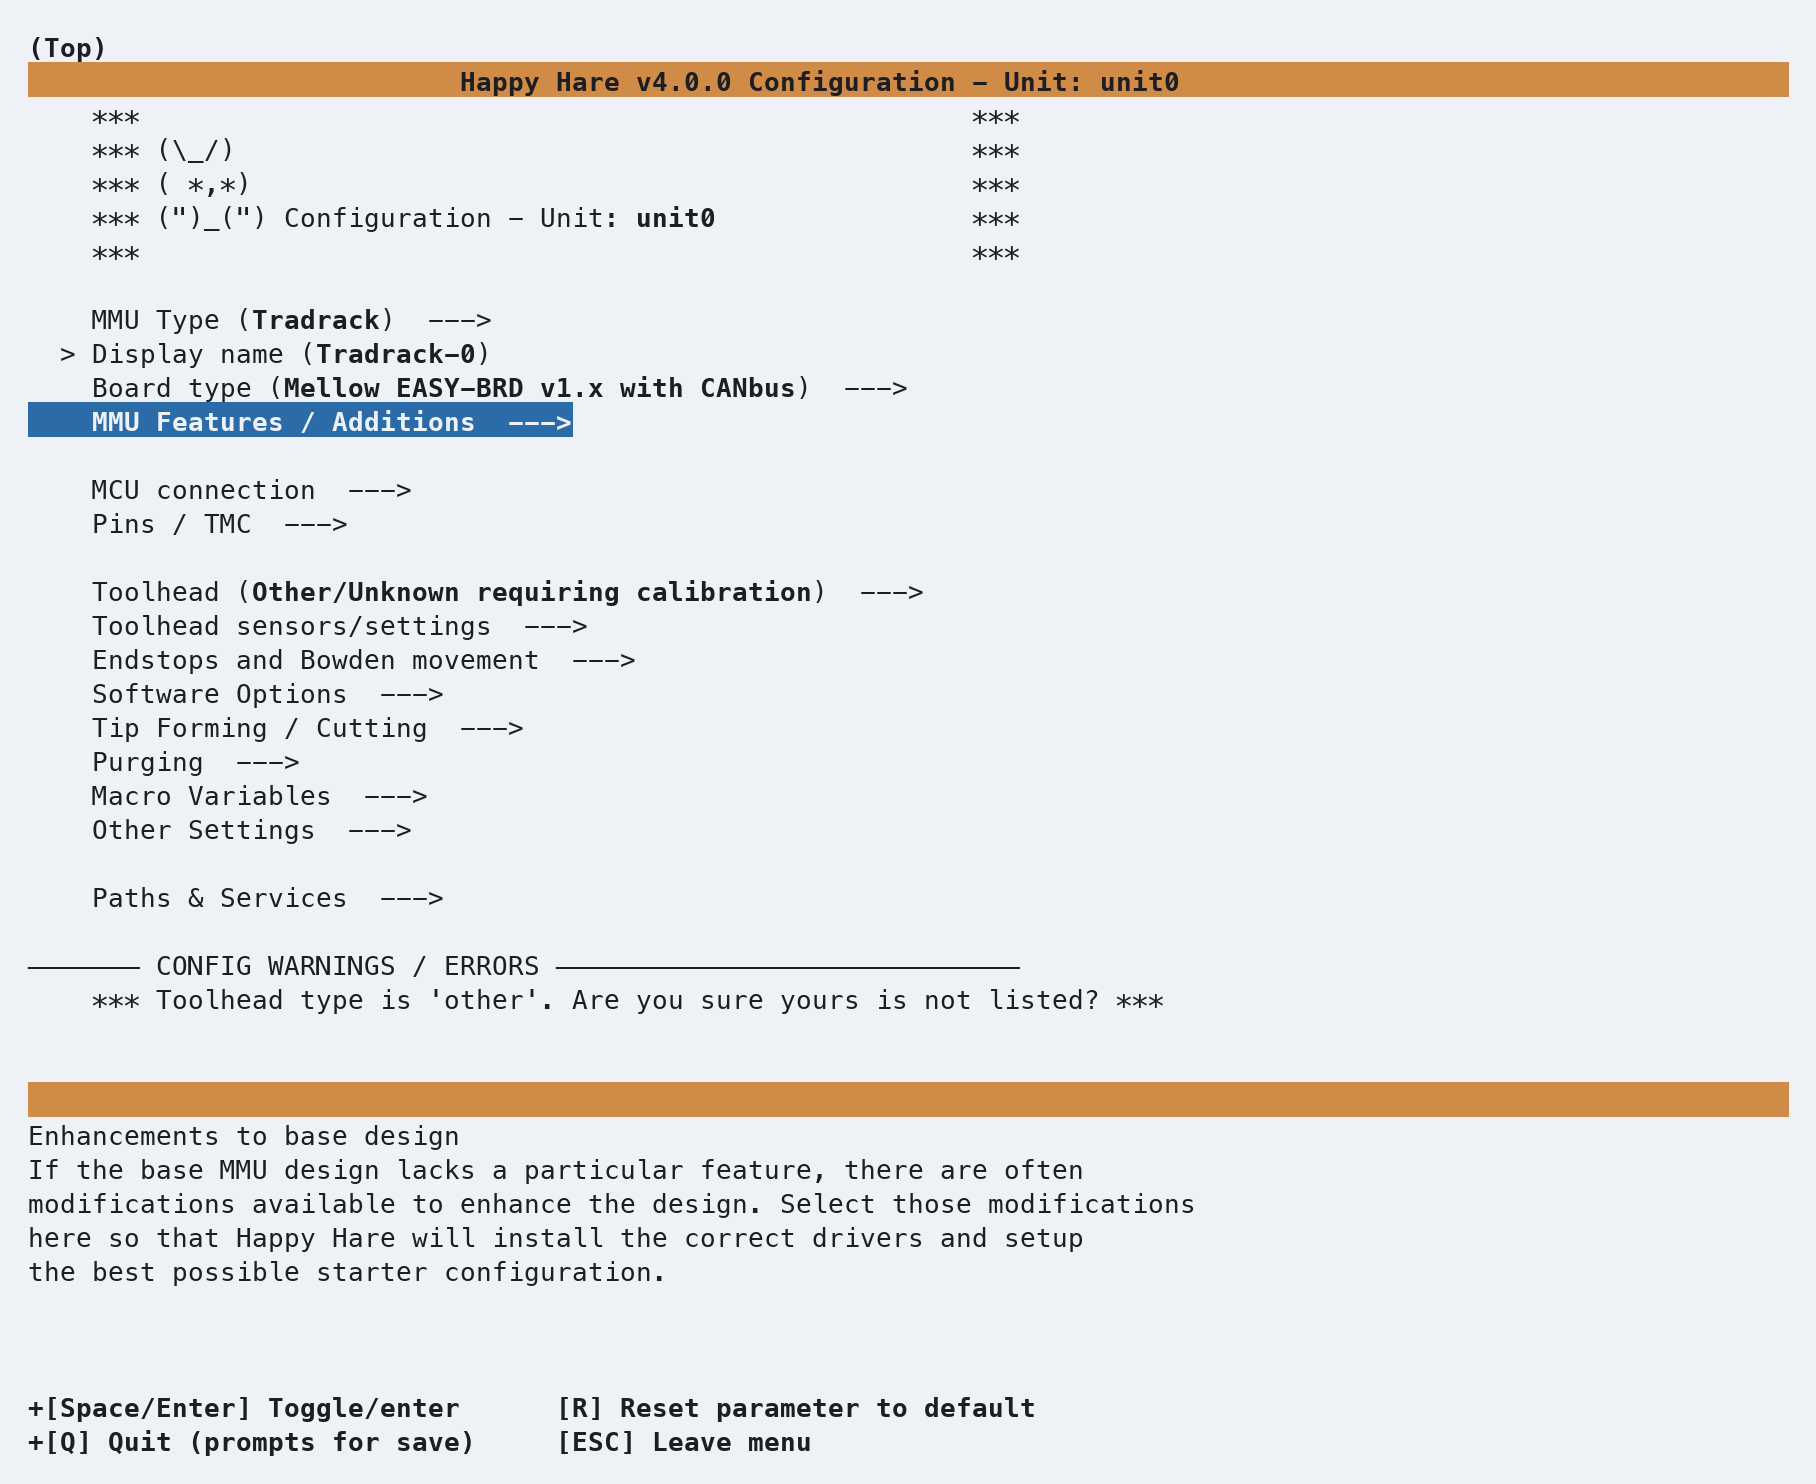
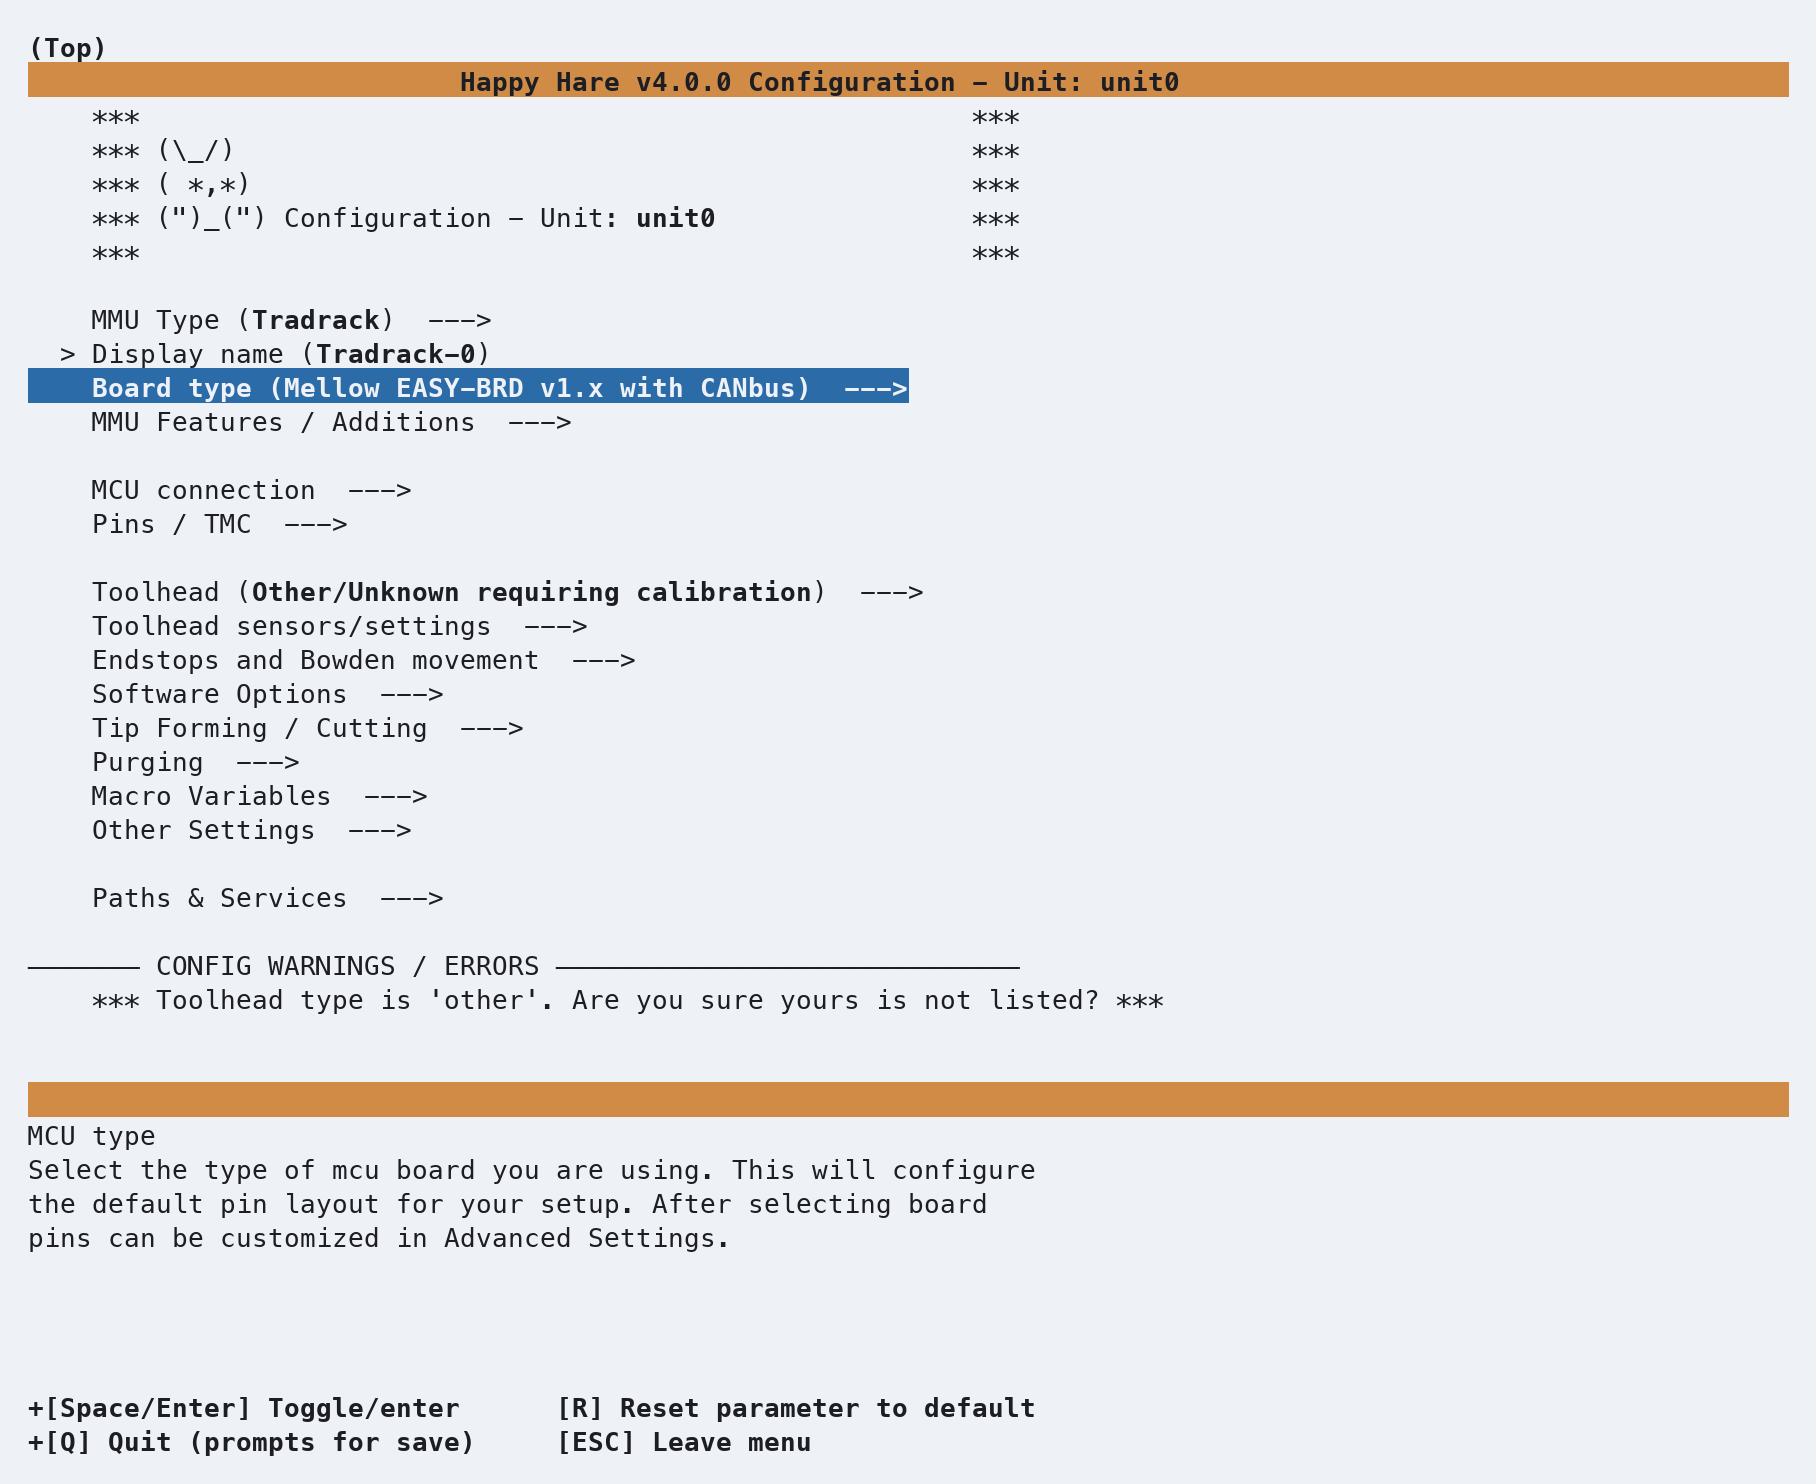
Tradrack getting started updates

Changed region(s): [[0.0, 0.7439, 0.6476, 0.8679], [0.0, 0.248, 0.5242, 0.31]]

diff --git a/doc/GettingStarted-Tradrack.md b/doc/GettingStarted-Tradrack.md
@@ -71,7 +71,7 @@ Don't worry about it here.
 <p align="center">
   <img src="GettingStarted-Tradrack/06-root-warnings.png" alt="Root menu after choosing Tradrack - one warning left" width="70%">
 </p>
-
+<br>
 
 ### Board type
 
@@ -83,20 +83,106 @@ TMC drivers throughout the rest of `menuconfig` are derived from whatever contro
 <p align="center">
   <img src="GettingStarted-Tradrack/07-board-type.png" alt="Board type list, BTT MMB v2.0 with CANBus already selected" width="70%">
 </p>
-
-
+<br>
 
 ### MCU connection
-### MMU Features / Additions
+
+++esc++ and back out to the top menu and open **MCU connection**. Tradrack defaults to USB serial, but if your setup uses CANBus, 
+select CAN instead. The installer attempts to auto‑detect USB serial device IDs and CANBus UUIDs where possible for you to choose from. 
+Unfortunately, if Klipper has previously claimed the CANBus device, UUID's can’t be rediscovered easily unless you remove all references
+from your klipper Happy Hare configuration and power cycle the printer.
+
+If you’re unsure of the CANBus UUID's when migrating to v4, you can check your saved `mmu.v3/base/mmu_hardware.cfg` configuration or
+`klippy.log` for the claimed device entries. The installer will then prompt you for your serial device or CANBus UUID, depending
+on the option selected. 
+
+Existing CANBus UUID selections/mapping are retained and not overwritten once saved.
+
+<p align="center">
+  <img src="GettingStarted-Tradrack/08-mcu-connection.png" alt="MCU connection" width="70%">
+</p>
+<br>
+
+In this example, we are switching to CANBus. Open **MCU connection** and select *CANbus*:
+<p align="center">
+  <img src="GettingStarted-Tradrack/08-mcu-connection-canbus.png" alt="MCU connection" width="70%">
+</p>
+<br>
+
+
+A list of discovered CANBus UUIDs is shown. If more than one device is found, select the one that corresponds to your Tradrack
+controller. If only one device is detected, it will be selected automatically.
+If no UUIDs are discovered, choose **Other / manually entered** and enter the correct CANBus UUID manually.
+<p align="center">
+  <img src="GettingStarted-ViViD/08-mcu-connection-canbus-uuids.png" alt="MCU connection" width="70%">
+</p>
+
 ### Pins: gear direction
+
+Select **Pins / TMC**, then **Gear pins**. GPIO Pin defaults are set based on your MCU controller board and Tradrack MMU
+selection. Review all pin settings for **Gear** and **Selector** steppers to make sure they are correct for your build. 
+Gear direction especially is the one setting that is impossible to get right by default or guessing and depends on how 
+the stepper cable is wired.
+
+<p align="center">
+  <img src="GettingStarted-Tradrack/09-gear-pins.png" alt="Gear pins list - one row per gate" width="70%">
+</p>
+<br>
+
+If the stepper spins the wrong way, you can invert it here without rewiring or hand-editing the configuration. 
+Highlight the **Gear dir pin** for the stepper and press Enter to open its editor. If that stepper needs reversing, 
+add a `!` in front of the pin name — Klipper's standard way of inverting a pin's polarity. 
+
+<p align="center">
+  <img src="GettingStarted-Tradrack/09-gear-dir-inverted.png" alt="Gear dir pin editor, showing the default pin" width="70%">
+</p>
+<br>
+
 ### Picking a toolhead
+From the top menu, select **Toolhead**.This step is optional — if you skip it, Happy Hare falls back to generic 
+“Other/Unknown” dimensions, which is a perfectly fine starting point. But if your toolhead (extruder + hotend combo)
+appears in the list, selecting it gives you real, community‑sourced measurements instead of generic estimates. Here
+we’ve chosen **A4T WWBMG for A4T Dragon Ace** to illustrate.
+
+<p align="center">
+  <img src="GettingStarted-Tradrack/10-toolhead-selected.png" alt="Toolhead list, Stealthburner Clockwork2 Revo Voron selected" width="70%">
+</p>
+<br>
+
+++esc++ to backout to the top menu and select **Toolhead sensors/settings**. This is where you can enable other features 
+such as **Toolhead cutter**, **toolhead** and **extruder** sensors if fitted. The community-sourced measurements for
+**Extruder entrance to nozzle** and **Residual filament**, under **Toolhead dimensions**,
+can be reviewed and tuned if necessary. For **A4T WWBMG for A4T Dragon Ace**, the values are`88` and `36.5`.
+
+The other two distances Happy Hare can use (toolhead sensor to nozzle & extruder sensor to entry) only appear when you 
+have enabled them and remain hidden when disabled.
+
+<p align="center">
+  <img src="GettingStarted-Tradrack/10-all-toolhead-dimensions-combined.png" alt="Toolhead dimensions, pre-filled from the selected combo" width="70%">
+</p>
+<br>
+
+This is a shortcut, not a substitute: even with a community-sourced toolhead measurements, it's useful to learn how to 
+measure and calibrate your own eventually, since small build variations and mods add up. But it's a genuinely good 
+starting point. If your exact combo isn't listed, "Other/Unknown" plus manual calibration
+([`MMU_CALIBRATE_TOOLHEAD`](Calibration-Toolhead.md)) is the process to follow.
+
+### MMU Features / Additions
+Optional Tradrack features can be enabled or disabled based on your Tradrack build here. Tradrack is a relatively simple, 
+modular design with a basic set of out-of-the-box features. Popular community authored extensions like Sync-feedback
+buffers (sensors) such as Annex Belay or more recent analog Proportional Sync Feedback sensors, Binky Encoder, etc 
+can be enabled here. 
+<p align="center">
+  <img src="GettingStarted-Tradrack/12-mmu-features.png" alt="MMU features" width="70%">
+</p>
+<br>
+
 ## Validating Hardware Setup
 ## Calibration
 ## Checking Basic Operation
 ## Slicer Setup
 ## Printing with MMU
 ## What Next?
-
 - Install [KlipperScreen (Happy Hare edition)](KlipperScreen.md) if you
   want a touchscreen front end, or drive everything from [Mainsail /
   Fluidd](Mainsail-Fluidd-Integration.md) — either works, and both are
